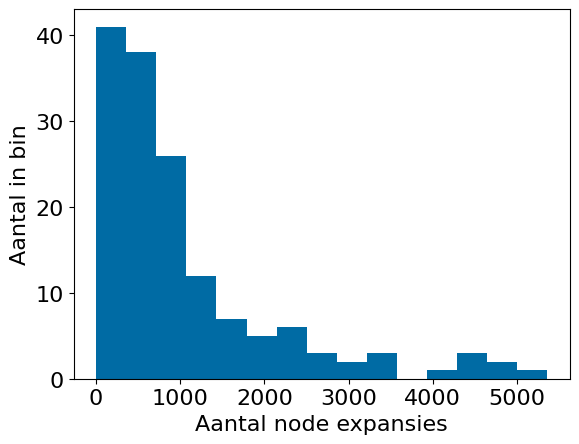
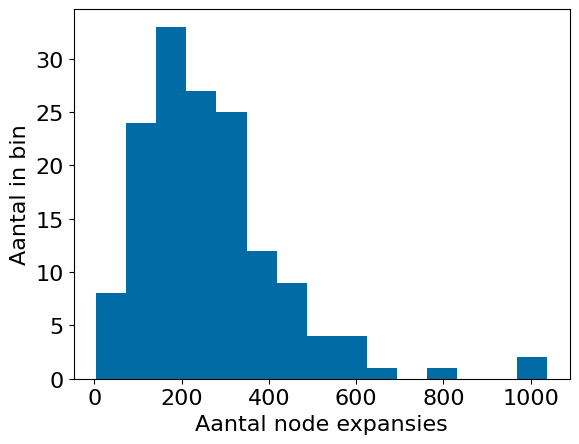
just backup

diff --git a/linear.py b/linear.py
@@ -7,19 +7,20 @@ import sklearn.model_selection
 import sklearn.linear_model
 import sklearn.svm
 from queue import PriorityQueue
+import sklearn.preprocessing
 import time
+
 
 def list_maker(euclid_distance, previous_euclid, amount_travelled, travel_time):
     difference = euclid_distance - previous_euclid
     #sqep = difference * difference
-
-    # new = 0.001 * (amount_travelled ** 2 + 10) / (amount_travelled ** 4 + 1) 
-
-    # new2 =  (euclid_distance ** 4 + 1) / (euclid_distance ** 2 + euclid_distance ** 4 + 10)
+    # extra = np.sqrt(np.sum((coor1-coor2) ** 2))
     
-    return np.array([amount_travelled, euclid_distance, travel_time, difference,  1/amount_travelled, 1/difference,1/(euclid_distance+0.1)])
+
+    return np.array([[amount_travelled, euclid_distance, travel_time, difference,  1/amount_travelled, 1/difference,1/(euclid_distance+0.1), np.tanh(amount_travelled) ]])
 
 def add_amount_of_visited_weights(graph, number_of_landmarks, cutoff=False):
+
 
     landmarks_tot = random.sample(list(graph.nodes()), number_of_landmarks) # without repetition
 
@@ -44,42 +45,39 @@ def add_amount_of_visited_weights(graph, number_of_landmarks, cutoff=False):
         distances, paths = nx.single_source_dijkstra(graph, landmark, weight='travel_time')
         for i, value in enumerate(paths.values()):
             
-            if  np.random.uniform(0.0, 1.0) < 0.001 and cutoff is True:
+            if  np.random.uniform(0.0, 1.0) < 0.005 and cutoff is True:
                 print(i)
                 break
             
             
             for x in range(len(value)-1): # -1 cause we can't count too for out of the list range
-                previous = cf.euclid_distance(value[x], value[-1], graph)
-                
+                previous = cf.euclid_distance(value[x], value[-1], graph)    
                 euclid_distance = cf.euclid_distance(value[x+1], value[-1], graph)
-
                 amount_travelled = graph[value[x]][value[x+1]]['amount_travelled']
                 travel_time = graph[value[x]][value[x+1]]['travel_time']
 
-
-                x_list.append(list_maker(euclid_distance, previous, amount_travelled, travel_time))
+                x_list.append(list_maker(euclid_distance, previous, amount_travelled, travel_time)[0])
              
                 # eucldian distance between the destination and the neighbor node we are actually going to
-                y_list.append(1 + 5 * distances[value[x+1]]/distances[value[-1]]) # used to be just one
+                y_list.append(1 + 3 * distances[value[x+1]]/distances[value[-1]] ) # used to be just one +  distances[value[x+1]]/distances[value[-1]]
                 
                 neighbors = list(graph.neighbors(value[x]))
                 neighbors.remove(value[x+1])
 
                 if neighbors != []: # if other neighbors are available
-                    chosen_neighbor = neighbors[0]
+                    chosen_neighbor = random.choice(neighbors) 
                     amount_travelled = graph[value[x]][chosen_neighbor]['amount_travelled']
                     euclid_distance = cf.euclid_distance(chosen_neighbor, value[-1], graph)
                     travel_time = graph[value[x]][chosen_neighbor]['travel_time']
 
-                    x_list.append(list_maker(euclid_distance, previous, amount_travelled, travel_time))
+                    x_list.append(list_maker(euclid_distance, previous, amount_travelled, travel_time)[0])
                     
                     y_list.append(0)
 
     x_train, x_test, y_train, y_test = sklearn.model_selection.train_test_split(x_list, y_list, test_size=0.25, random_state=42, shuffle=True)
     
-    #linear_regression = sklearn.svm.SVR(kernel='linear', max_iter = 50000)
-    linear_regression = sklearn.linear_model.LinearRegression()
+    # linear_regression = sklearn.svm.SVR(kernel='poly',max_iter = 5000, verbose=False)
+    linear_regression =  sklearn.linear_model.Ridge() #sklearn.linear_model.LinearRegression()
     
     x_train = np.array(x_train)
     y_train = np.array(y_train)
@@ -87,18 +85,18 @@ def add_amount_of_visited_weights(graph, number_of_landmarks, cutoff=False):
     print(x_train.shape)
 
     clf = linear_regression.fit(x_train, y_train)
-
+    print(clf.coef_)
     print(clf.score(x_train, y_train))
     print(clf.score(x_test, y_test))
-    print(clf.coef_)
 
+    print('hier')
     return clf
 
 
 def output_function(weights, vals):
     return np.sum(weights * vals)
 
-def priority_queue_new_evaluation_function(id1, id2, graph, weight_function,ratio_travelled=False, return_counter=False): # id1 is start node id2 is go to node
+def priority_queue_new_evaluation_function(id1, id2, graph, weight_function, ratio_travelled=False, return_counter=False): # id1 is start node id2 is go to node
     inf = np.inf
     # heuristic function 
     total_nodes = graph.nodes()
@@ -126,8 +124,8 @@ def priority_queue_new_evaluation_function(id1, id2, graph, weight_function,rati
     while priority_queue.empty() is False:
         _ , current_node = priority_queue.get() # first attribute is the weight
     
-        if current_node in visited: # don't want to visit same node twice
-            continue
+        #if current_node in visited: # don't want to visit same node twice
+            #continue
         
         if current_node == id2:
             
@@ -141,6 +139,7 @@ def priority_queue_new_evaluation_function(id1, id2, graph, weight_function,rati
         
         teller += 1
         previous = cf.euclid_distance(current_node, id2, graph)
+
         for _ ,neighbor_node, edge_weight in graph.edges(current_node, data = 'travel_time'): #first one is the current node the last argument makes sure we get the length
            
             tentative_g_score = g_score[current_node] + edge_weight
@@ -156,9 +155,11 @@ def priority_queue_new_evaluation_function(id1, id2, graph, weight_function,rati
                 # amount_travelled,  euclid_distance, graph[value[x]][chosen_neighbor]['travel_time'], euclid_distance-previous, 1/amount_travelled, 1/(0.1+euclid_distance), 1 / graph[value[x]][chosen_neighbor]['travel_time']
 
                 travel_time = graph[current_node][neighbor_node]['travel_time']
+
+
                 for_function = list_maker(euclid_distance, previous, amount_travelled, travel_time)
-                
-                f_score[neighbor_node] = - output_function(weight_function.coef_, for_function) # expand lowest first
+
+                f_score[neighbor_node] = - output_function(weight_function.coef_, for_function) # output_function(weight_function.coef_, for_function) #output_function(weight_function.coef_, for_function)# expand lowest first
                 
                 priority_queue.put((f_score[neighbor_node], neighbor_node))
 

diff --git a/compare_node_expansion.py b/compare_node_expansion.py
@@ -11,6 +11,7 @@ import networkx as nx
 from gensim.models import KeyedVectors
 import time
 import linear
+import fix_graph_data
 
 mpl.style.use('tableau-colorblind10')
 np.random.seed(42)
@@ -80,9 +81,12 @@ def make_graphs_NN(city, number_of_paths):
 
     time_normal = 0
     time_NN = 0
+
+    average_vel = get_weigted_average_velocity(graph)
+    
     
     for i in range(len(start_nodes)):
-        average_vel = get_weigted_average_velocity(graph)
+        
 
         start_time = time.time()
         a = a_star.A_star_priority_queue(start_nodes[i], end_nodes[i], graph, average_vel, return_counter = True)
@@ -151,13 +155,20 @@ def make_graphs_logistic(city, number_of_paths, number_of_landmarks, cutoff=Fals
     len_ML, teller_ML = list(), list()
     weight_path = list()
 
+    time_max_vel = 0
     time_normal = 0
     time_ML = 0
 
-    average_vel = get_weigted_average_velocity(graph)
+    average_vel = get_weigted_average_velocity(graph) -15
+    max_velocity = fix_graph_data.get_max_velocity(graph) # gets the max velocity of all edges, useful for A*
+
     clf = linear.add_amount_of_visited_weights(graph, number_of_landmarks=number_of_landmarks, cutoff=cutoff)
     
     for i in range(len(start_nodes)):
+
+        start_time = time.time()
+        a_star.A_star_priority_queue(start_nodes[i], end_nodes[i], graph, max_velocity)
+        time_max_vel +=  time.time() - start_time
         
         start_time = time.time()
         a = a_star.A_star_priority_queue(start_nodes[i], end_nodes[i], graph, average_vel, return_counter = True)
@@ -167,7 +178,7 @@ def make_graphs_logistic(city, number_of_paths, number_of_landmarks, cutoff=Fals
         teller_astar_list.append(a[1])
 
         start_time = time.time()
-        b = linear.priority_queue_new_evaluation_function(start_nodes[i], end_nodes[i], graph, clf, ratio_travelled=True ,return_counter=True)
+        b = linear.priority_queue_new_evaluation_function(start_nodes[i], end_nodes[i], graph, clf ,ratio_travelled=True ,return_counter=True)
 
         time_ML += time.time() - start_time
         
@@ -209,10 +220,10 @@ def make_graphs_logistic(city, number_of_paths, number_of_landmarks, cutoff=Fals
     plt.savefig(f'./semester2/ML_files/aantal_expansies_ML_{city}.png', bbox_inches="tight")
     plt.clf()
 
-    y_pos = np.arange(2) # 2 timings
+    y_pos = np.arange(3) # 2 timings
 
-    plt.barh(y_pos,[time_normal/number_of_paths, time_ML/number_of_paths], align = 'center')
-    plt.yticks(y_pos, labels=['A* met gewogen gemiddelde', 'Lineaire regressie'])
+    plt.barh(y_pos,[time_max_vel/number_of_paths, time_normal/number_of_paths, time_ML/number_of_paths], align = 'center')
+    plt.yticks(y_pos, labels=['Consistente A*','A* met gewogen gemiddelde', 'Lineaire regressie'])
     plt.yticks(rotation = 25)
     plt.xlabel('Uitvoeringstijd (s)')
     plt.xscale('log')
@@ -257,6 +268,6 @@ def prepare_plot_errorbar_logistic(computed_list, weight_path,  binsize):
 # make_graphs_NN('Brugge', 50)
 # name_list = ['New Dehli','Brugge','Nairobi', 'Rio de Janeiro', 'Manhattan']
 
-name_list = ['Brugge']
+name_list = ['big_graph']
 for name in name_list:
-    make_graphs_logistic(name, 150, 15, cutoff=False)
+    make_graphs_logistic(name, 150, 15, cutoff=True)

diff --git a/spring_before_astar.py b/spring_before_astar.py
@@ -13,9 +13,10 @@ for node in graph.nodes():
 
 new_layout = nx.spring_layout(graph, pos=coordinate_dictionary, weight='travel_time', seed=42)
 
+print(new_layout)
+nx.draw_networkx_nodes(graph, new_layout, node_size=1) # new layout specifies positions
 
-nx.draw_networkx_nodes(graph, new_layout, node_size=10) # new layout specifies positions
 labels = nx.get_edge_attributes(graph,'travel_time')
-nx.draw_networkx_edges(graph, pos=new_layout, edgelist=None, width=0.5, node_size=10)
+nx.draw_networkx_edges(graph, pos=new_layout, edgelist=None, width=0.5, node_size=1)
 nx.draw_networkx_edge_labels(graph, pos=new_layout, edge_labels=labels, label_pos=0.5, font_size=3)
 plt.savefig('./semester2/springlayout/Brugge_gespringed.png', dpi=500)
